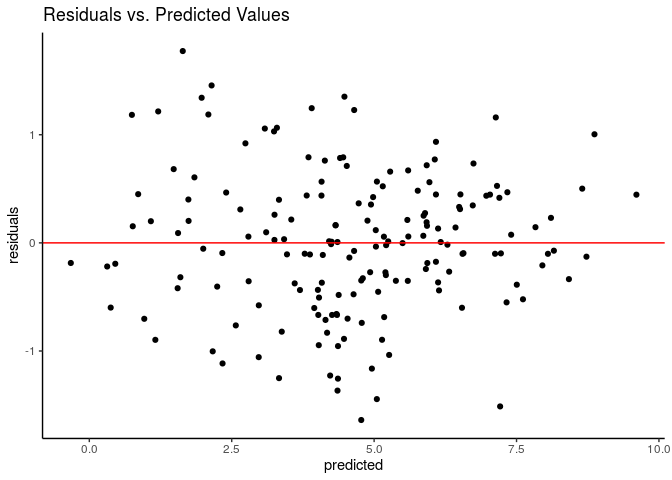
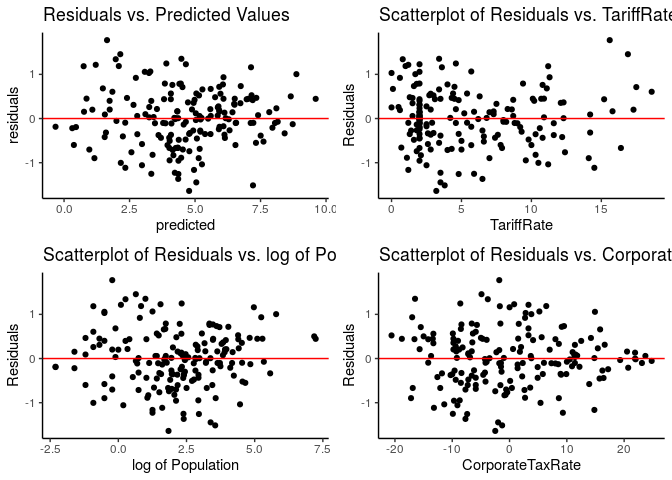
made into grid plots for model assumptions

diff --git a/04-final-writeup/final-writeup.md b/04-final-writeup/final-writeup.md
@@ -1148,9 +1148,7 @@ independent.
 
 #### Constant Variance & Linearity
 
-![](final-writeup_files/figure-gfm/residual%20vs.%20predicted-1.png)<!-- -->
-
-![](final-writeup_files/figure-gfm/residuals%20vs.%20predictor%20variables-1.png)<!-- -->![](final-writeup_files/figure-gfm/residuals%20vs.%20predictor%20variables-2.png)<!-- -->![](final-writeup_files/figure-gfm/residuals%20vs.%20predictor%20variables-3.png)<!-- -->![](final-writeup_files/figure-gfm/residuals%20vs.%20predictor%20variables-4.png)<!-- -->![](final-writeup_files/figure-gfm/residuals%20vs.%20predictor%20variables-5.png)<!-- -->![](final-writeup_files/figure-gfm/residuals%20vs.%20predictor%20variables-6.png)<!-- -->![](final-writeup_files/figure-gfm/residuals%20vs.%20predictor%20variables-7.png)<!-- -->![](final-writeup_files/figure-gfm/residuals%20vs.%20predictor%20variables-8.png)<!-- -->
+![](final-writeup_files/figure-gfm/residual%20vs.%20predicted-1.png)<!-- -->![](final-writeup_files/figure-gfm/residual%20vs.%20predicted-2.png)<!-- -->
 
 From the residual plots above, we conclude the constant variance and
 linearity assumptions are satisified. Residuals are all randomly
@@ -1160,7 +1158,7 @@ predictors.
 
 #### Normality Check
 
-![](final-writeup_files/figure-gfm/residual%20normality%20check-1.png)<!-- -->![](final-writeup_files/figure-gfm/residual%20normality%20check-2.png)<!-- -->
+![](final-writeup_files/figure-gfm/residual%20normality%20check-1.png)<!-- -->
 
 The normality assumption is satisfied since the distribution of
 residuals appears to be unimodal and approximately normal. Also, the
